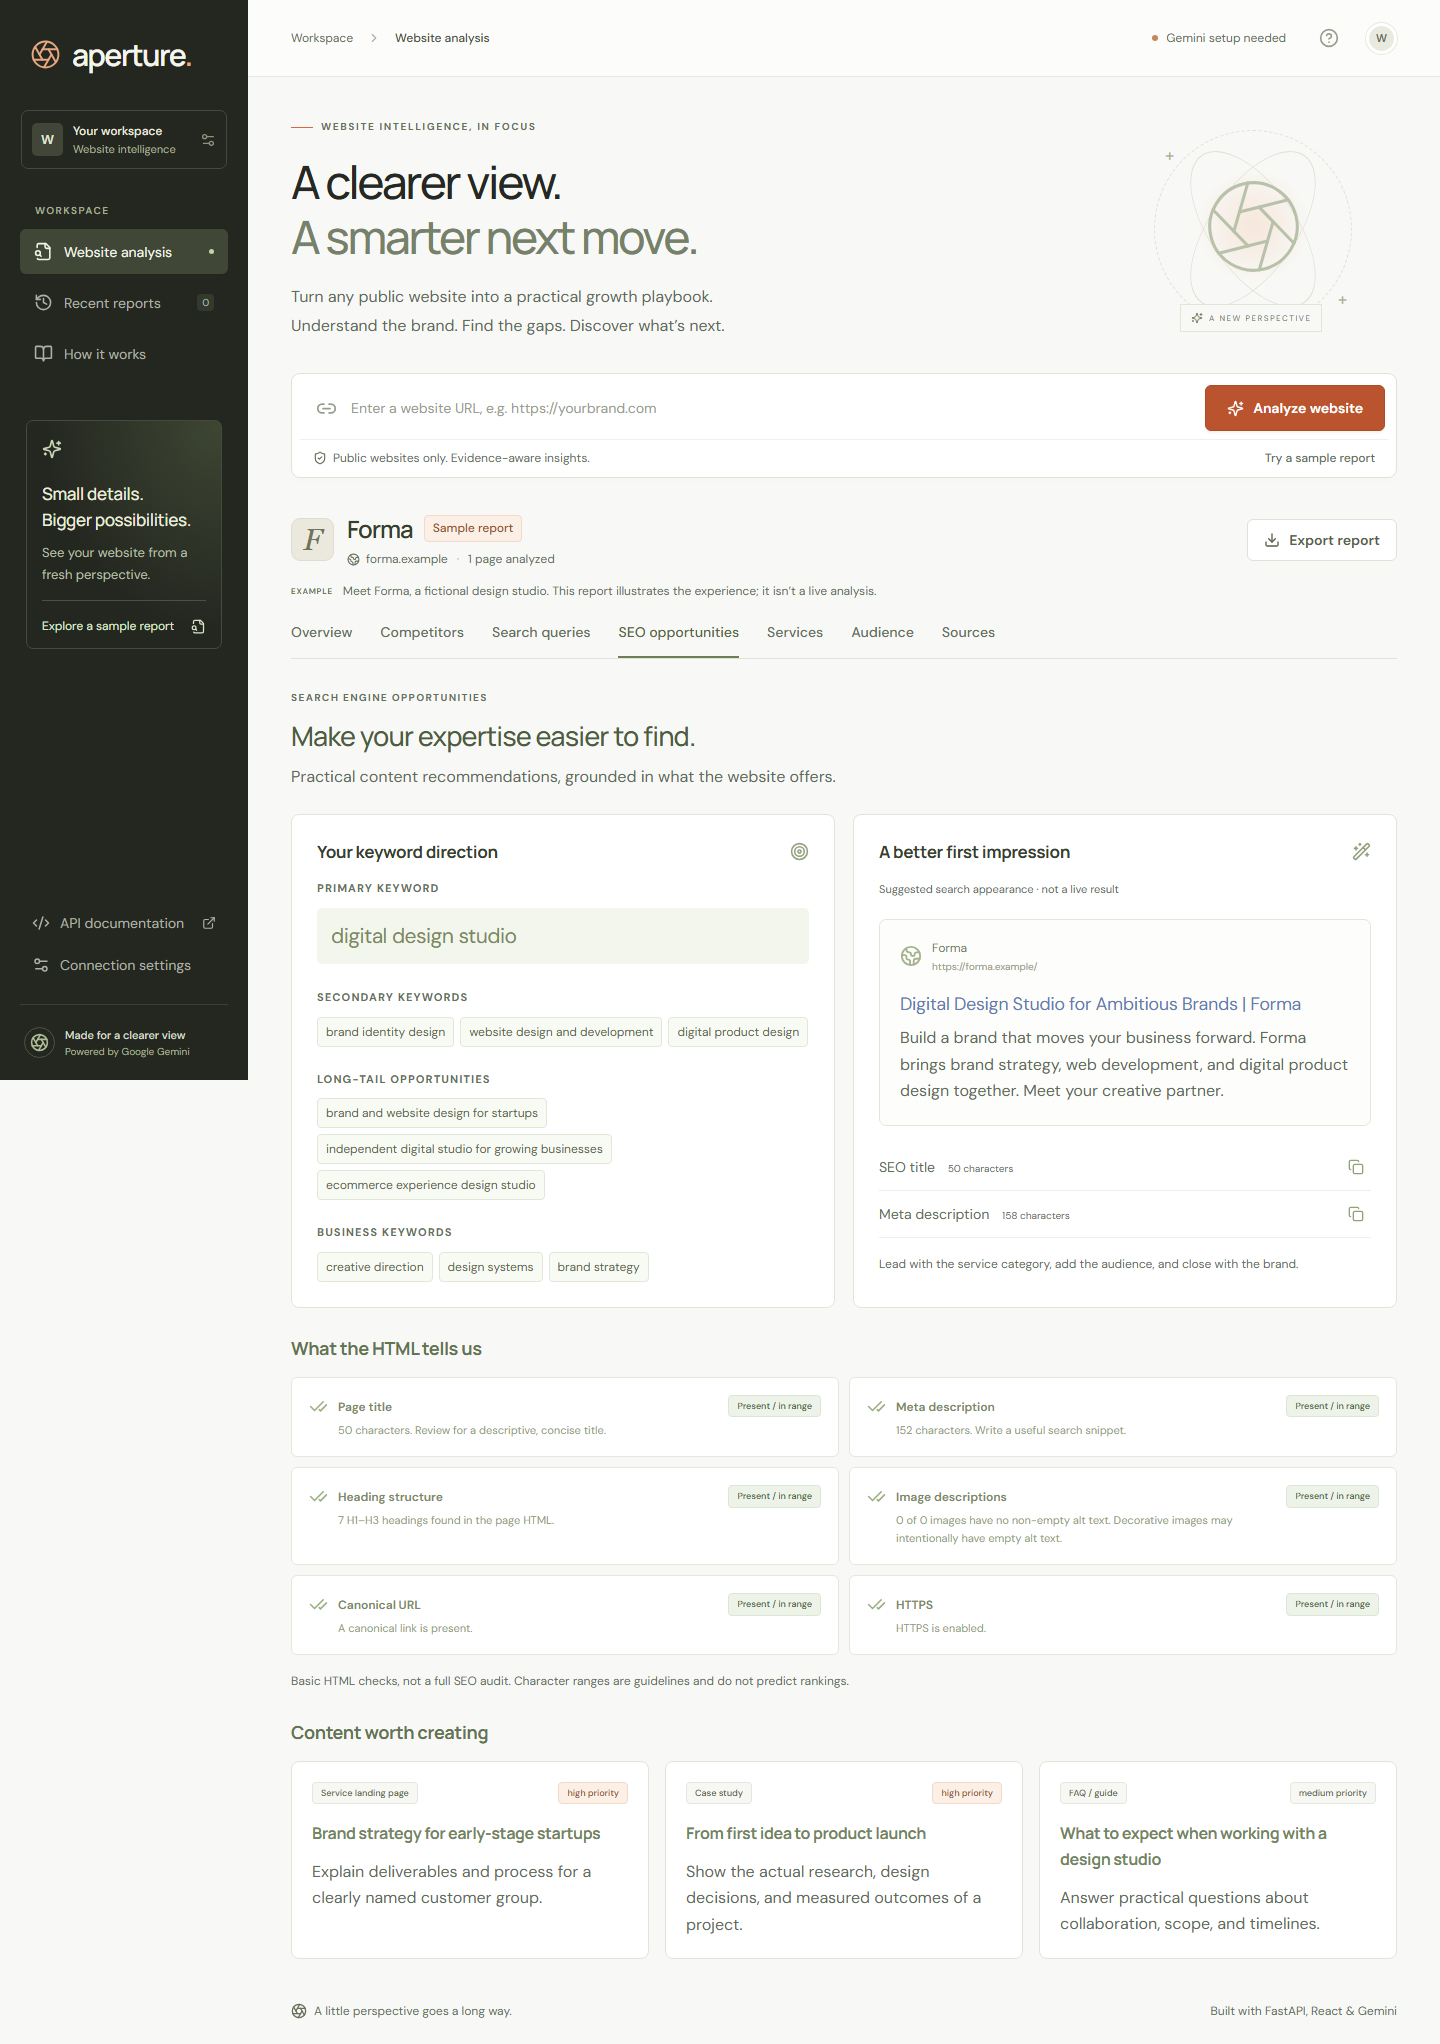
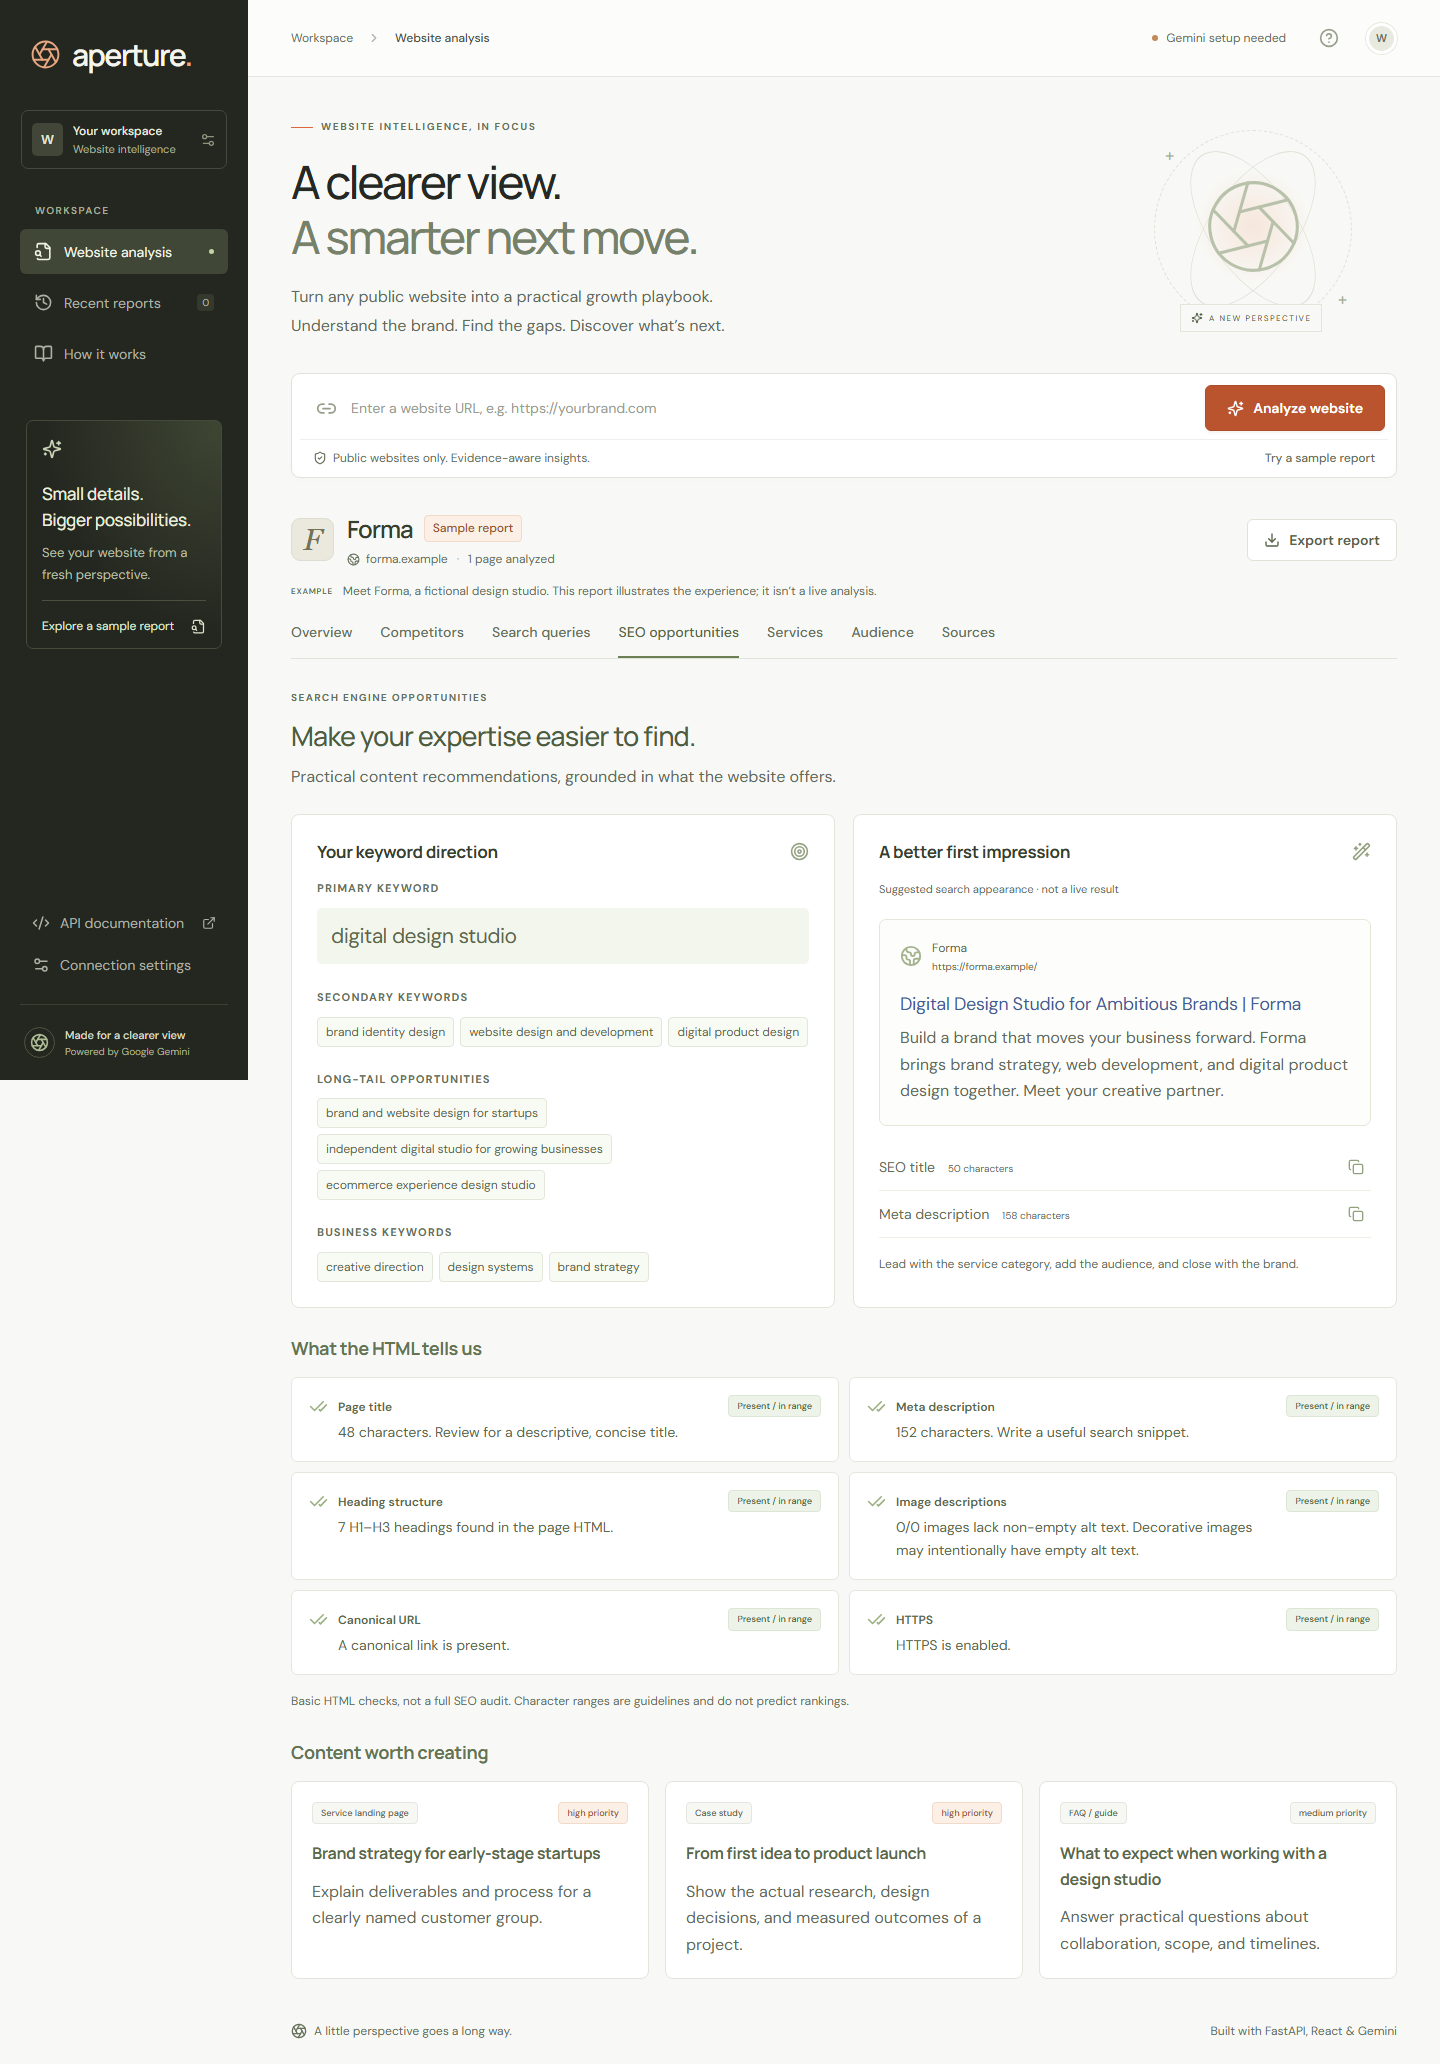
test: cover concurrency and enforce accessibility across report panels

diff --git a/frontend/e2e/accessibility.spec.ts b/frontend/e2e/accessibility.spec.ts
@@ -1,0 +1,40 @@
+import AxeBuilder from "@axe-core/playwright";
+import { expect, test } from "@playwright/test";
+
+for (const section of [
+  "Overview",
+  "Competitors",
+  "Search queries",
+  "SEO opportunities",
+  "Services",
+  "Audience",
+  "Sources",
+]) {
+  test(`${section} has no automated WCAG A/AA violations`, async ({ page }) => {
+    await page.emulateMedia({ reducedMotion: "reduce" });
+    await page.route("**/health", (route) =>
+      route.fulfill({
+        json: {
+          status: "ok",
+          configured: false,
+          authentication_required: false,
+          model: "gemini-3.5-flash-lite",
+        },
+      }),
+    );
+    await page.goto("/");
+    await page.getByRole("tab", { name: section, exact: true }).click();
+    const results = await new AxeBuilder({ page })
+      .withTags(["wcag2a", "wcag2aa", "wcag21aa"])
+      .analyze();
+    expect(
+      results.violations.map((item) => ({
+        id: item.id,
+        nodes: item.nodes.map((node) => ({
+          target: node.target,
+          failure: node.failureSummary,
+        })),
+      })),
+    ).toEqual([]);
+  });
+}

diff --git a/frontend/src/styles.css b/frontend/src/styles.css
@@ -2951,3 +2951,20 @@ main .insight-list li,
 .opportunity-card > .card-top > .eyebrow {
   color: #647151;
 }
+.notice p strong,
+.primary-keyword,
+.snippet-site,
+.snippet-site small,
+.check-card strong,
+.check-card p,
+.content-ideas h3,
+.service-detail > span,
+.source-label {
+  color: #59694a;
+}
+.search-snippet h3 {
+  color: #455c96;
+}
+.check-card p {
+  font-size: 0.875rem;
+}

diff --git a/tests/test_analysis.py b/tests/test_analysis.py
@@ -93,3 +93,75 @@ async def test_cache_avoids_repeated_fetch_and_generation(settings, report):
     assert service.cached("https://example.com/", "third").brand.name == "Forma"
     extractor.extract.assert_awaited_once()
     llm.generate.assert_awaited_once()
+
+
+async def test_simultaneous_duplicates_share_result(settings, report):
+    import asyncio
+
+    extractor = AsyncMock()
+    extractor.extract.return_value = (report.sources, [])
+
+    async def delayed_generate(_):
+        await asyncio.sleep(0.02)
+        return generated(report), {}
+
+    llm = AsyncMock()
+    llm.generate.side_effect = delayed_generate
+    service = AnalysisService(settings, extractor, llm)
+    results = await asyncio.gather(
+        service.analyze("https://example.com", "one"),
+        service.analyze("https://example.com", "two"),
+    )
+    assert sum(result.metadata.cached for result in results) == 1
+    llm.generate.assert_awaited_once()
+
+
+async def test_busy_server_fails_without_queueing_unbounded_work(settings, report):
+    service = AnalysisService(settings, AsyncMock(), AsyncMock())
+    for _ in range(settings.max_concurrent_analyses):
+        await service.slots.acquire()
+    with pytest.raises(AnalysisError) as error:
+        await service.analyze("https://example.com", "busy")
+    assert error.value.code == "server_busy"
+    service.extractor.extract.assert_not_awaited()
+
+
+async def test_transient_provider_error_retries_once(settings, report, monkeypatch):
+    sleep = AsyncMock()
+    monkeypatch.setattr("app.services.llm_service.asyncio.sleep", sleep)
+    responses = [
+        httpx.Response(503),
+        httpx.Response(
+            200,
+            json={
+                "candidates": [
+                    {
+                        "finishReason": "STOP",
+                        "content": {"parts": [{"text": generated(report).model_dump_json()}]},
+                    }
+                ]
+            },
+        ),
+    ]
+    async with httpx.AsyncClient(
+        transport=httpx.MockTransport(lambda _: responses.pop(0))
+    ) as client:
+        result, _ = await GeminiService(settings, client).generate(report.sources)
+    assert result.brand.name == "Forma"
+    sleep.assert_awaited_once()
+    assert not responses
+
+
+def test_query_contract_rejects_missing_platform_and_duplicates(report):
+    from pydantic import ValidationError
+
+    data = generated(report).model_dump()
+    data["analysis"]["target_search_queries"][4]["platforms"] = ["Google"]
+    with pytest.raises(ValidationError, match="five supported platforms"):
+        GeneratedReport.model_validate(data)
+    data = generated(report).model_dump()
+    data["analysis"]["target_search_queries"][4]["query"] = data["analysis"][
+        "target_search_queries"
+    ][0]["query"]
+    with pytest.raises(ValidationError, match="distinct"):
+        GeneratedReport.model_validate(data)

diff --git a/tests/test_extraction.py b/tests/test_extraction.py
@@ -157,3 +157,39 @@ async def test_empty_content_has_actionable_error(settings):
     extractor.fetch = AsyncMock(return_value=("https://example.com/", "<div id='app'></div>"))
     with pytest.raises(AnalysisError, match="JavaScript"):
         await extractor.extract("https://example.com/")
+
+
+async def test_multi_page_extraction_and_partial_failure(settings):
+    settings.max_pages = 3
+    content = "A useful public website describing software development and design services. " * 5
+    extractor = WebsiteExtractor(settings, None)
+    extractor.fetch = AsyncMock(
+        side_effect=[
+            (
+                "https://example.com/",
+                f"<main>{content}<a href='/about'>About</a><a href='/services'>Services</a></main>",
+            ),
+            ("https://example.com/about", f"<main>About the company: {content}</main>"),
+            AnalysisError("website_restricted", "Forbidden"),
+        ]
+    )
+    pages, warnings = await extractor.extract("https://example.com/")
+    assert len(pages) == 2
+    assert [p.id for p in pages] == ["page-1", "page-2"]
+    assert warnings and "could not be read" in warnings[0]
+    assert sum(len(page.text) for page in pages) <= settings.max_content_chars
+
+
+async def test_offsite_internal_redirect_is_excluded(settings):
+    settings.max_pages = 2
+    content = "A useful public website describing software development and design services. " * 5
+    extractor = WebsiteExtractor(settings, None)
+    extractor.fetch = AsyncMock(
+        side_effect=[
+            ("https://example.com/", f"<main>{content}<a href='/about'>About</a></main>"),
+            ("https://unrelated.example.org/", f"<main>{content}</main>"),
+        ]
+    )
+    pages, warnings = await extractor.extract("https://example.com/")
+    assert len(pages) == 1
+    assert "off-site" in warnings[0]

diff --git a/app/main.py b/app/main.py
@@ -7,10 +7,11 @@ from pathlib import Path
 
 import httpx
 from cachetools import TTLCache
-from fastapi import FastAPI, Request
+from fastapi import FastAPI, Request, Security
 from fastapi.exceptions import RequestValidationError
 from fastapi.middleware.cors import CORSMiddleware
 from fastapi.responses import JSONResponse
+from fastapi.security import APIKeyHeader
 from fastapi.staticfiles import StaticFiles
 
 from app.config import Settings
@@ -20,7 +21,7 @@ from app.services.analysis_service import AnalysisService
 from app.services.llm_service import GeminiService
 from app.services.website_extractor import WebsiteExtractor
 
-logger = logging.getLogger("aperture")
+logger = logging.getLogger("uvicorn.error")
 
 
 def create_app(settings: Settings | None = None, service=None) -> FastAPI:
@@ -147,6 +148,16 @@ def create_app(settings: Settings | None = None, service=None) -> FastAPI:
         "/link-analysis",
         response_model=AnalysisResponse,
         tags=["Analysis"],
+        dependencies=[
+            Security(
+                APIKeyHeader(
+                    name="X-API-Key",
+                    auto_error=False,
+                    description="App access key; needed when ANALYSIS_API_KEY is configured. "
+                    "Never enter your Gemini provider key here.",
+                )
+            )
+        ],
         responses={code: {"model": ErrorResponse} for code in (401, 413, 422, 429, 502, 503, 504)},
     )
     async def link_analysis(payload: AnalysisRequest, request: Request):

diff --git a/tests/test_api.py b/tests/test_api.py
@@ -22,6 +22,8 @@ def test_contract_and_docs(settings, report):
         }
         assert response.headers["x-request-id"]
         assert client.get("/docs").status_code == 200
+        schema = client.get("/openapi.json").json()
+        assert schema["components"]["securitySchemes"]["APIKeyHeader"]["name"] == "X-API-Key"
         assert client.get("/health").json()["configured"]
 
 
